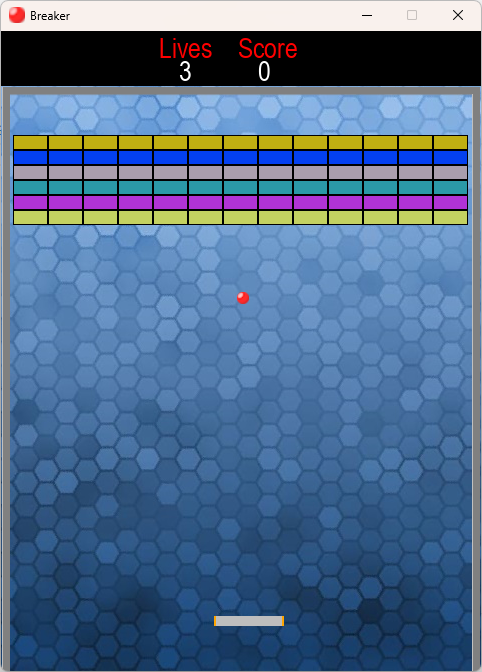
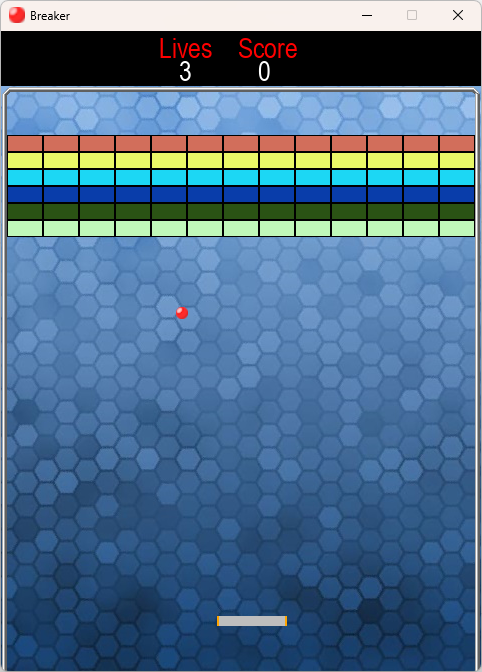
frame

diff --git a/main.py b/main.py
@@ -39,15 +39,15 @@ ball_ang = 0
 brick_color = [0, 0, 0]
 def create_bricks() -> list:
     level = []
-    x = -22
+    x = 7
     y = UI_HEIGHT + 50
     for _ in range(6):
         brick_color = [random.randint(0, 255), random.randint(0, 255), random.randint(0, 255)]
         for _ in range(13):
-            x += 35
             level.append((x, y, brick_color))
-        y += 15
-        x = -22
+            x += 36
+        y += 17
+        x = 7
     return level
 
 bricks = create_bricks()
@@ -76,7 +76,7 @@ while running:
     
     # --- BRICK COLLIDE ---
     for block in bricks:
-        if ball_pos.colliderect(block[0], block[1], 35, 15):
+        if ball_pos.colliderect(block[0], block[1], 36, 15):
             bricks.remove(block)
             score += 10
             ball_dir_y *= -1
@@ -92,8 +92,8 @@ while running:
     # --- BRICK DRAW ---
     for block in bricks:
         brick_color = block[2]
-        pygame.draw.rect(screen, "black", (block[0]-1, block[1]-1, 35, 15))
-        pygame.draw.rect(screen, brick_color, (block[0], block[1], 33, 13))
+        pygame.draw.rect(screen, "black", (block[0]-1, block[1]-1, 36, 17))
+        pygame.draw.rect(screen, brick_color, (block[0], block[1], 34, 15))
 
     # --- PLAYER/BALL DRAW ---
     screen.blit(ball_image, ball_pos)
@@ -113,9 +113,9 @@ while running:
             score = 0
             bricks = create_bricks()
     
-    if ball_pos.centerx < 12:
+    if ball_pos.centerx < 15:
         ball_dir_x *= -1
-    elif ball_pos.centerx > WIDTH - 12:
+    elif ball_pos.centerx > WIDTH - 15:
         ball_dir_x *= -1
     
     if ball_pos.top <= UI_HEIGHT + 10:
@@ -127,7 +127,7 @@ while running:
         if ball_pos.centerx < player_pos.centerx:
             ball_ang -= dt * ball_step * (player_pos.centerx - ball_pos.centerx)
         elif ball_pos.centerx > player_pos.centerx:
-            ball_ang += dt * ball_step * (ball_pos.centerx - player_pos.centerx)
+            ball_ang += 1.25 * dt * ball_step * (ball_pos.centerx - player_pos.centerx)
     
     # --- BALL UPDATE ---
     ball_pos.centery += int(ball_step * dt * ball_dir_y)
